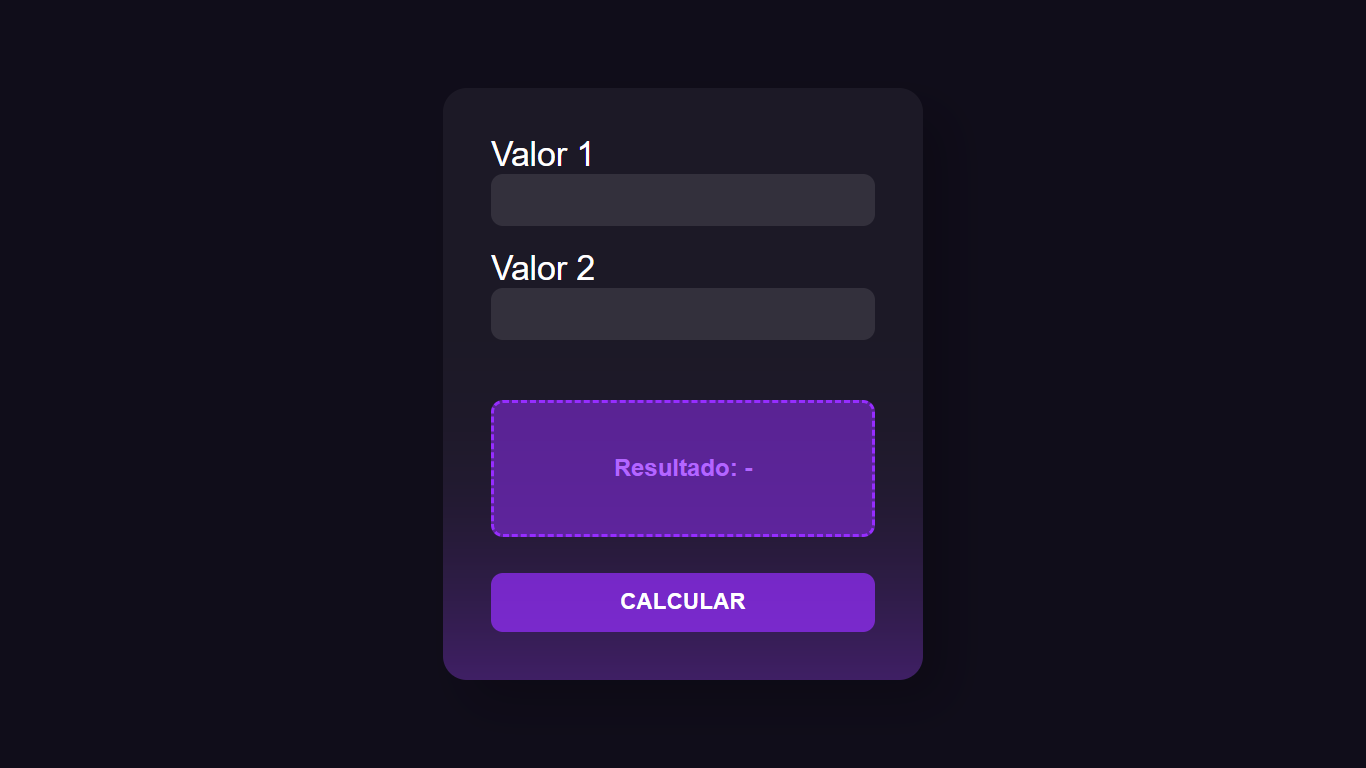
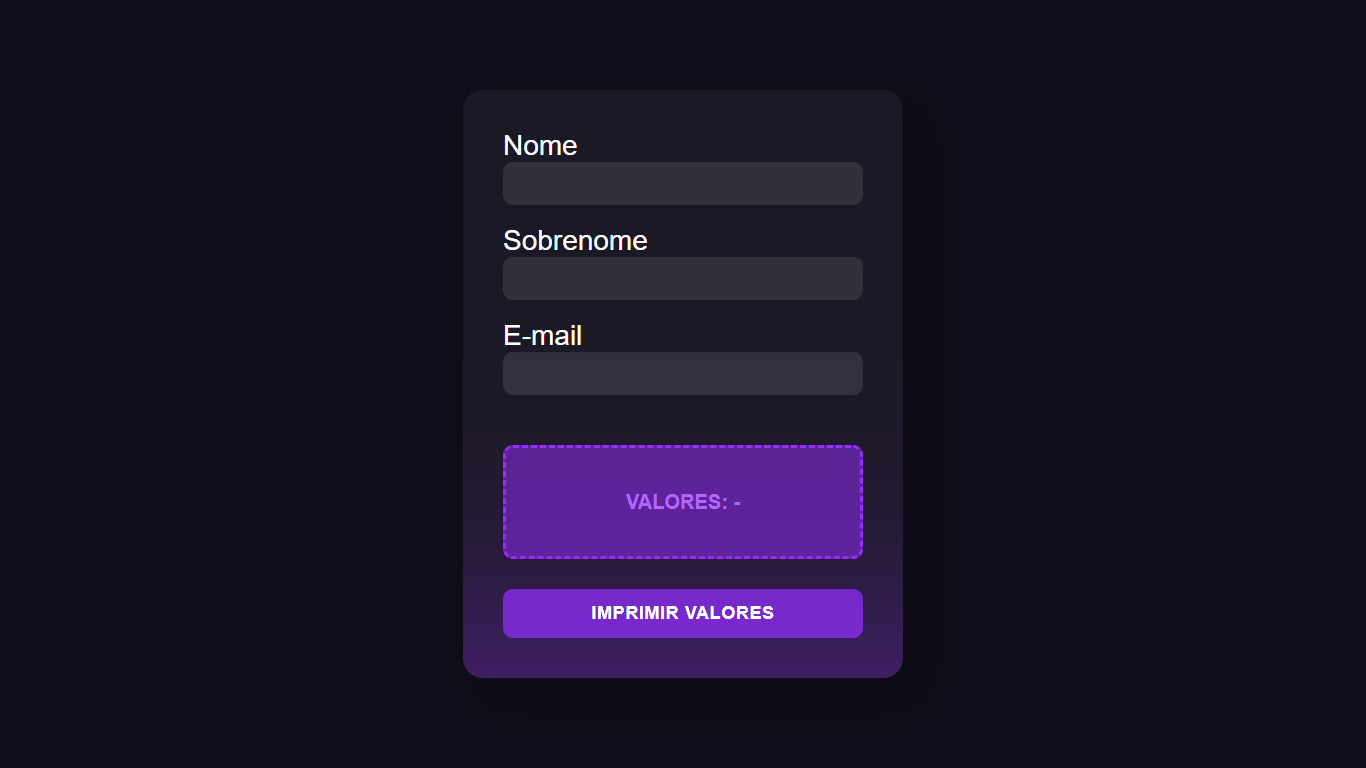
♻ refactor: Changes in practical activities

diff --git a/aula_10/AP/PraticaSoftware_John_Doe/index.html b/aula_10/AP/PraticaSoftware_John_Doe/index.html
@@ -1,0 +1,42 @@
+<!DOCTYPE html>
+<html lang="pt-BR">
+    <head>
+        <meta charset="UTF-8">
+        <meta http-equiv="X-UA-Compatible" content="IE=edge">
+        <meta name="viewport" content="width=device-width, initial-scale=1.0">
+
+        <title>Pratica Integradora Desenvolvimento de Software</title>
+
+        <link type="text/css" rel="stylesheet" href="css/estilo.css">
+    </head>
+    <body>
+        <form id="getForm">
+            <label for="nome">Nome</label>
+            <input id="nome" name="nome" type="text">
+
+            <label for="sobrenome">Sobrenome</label>
+            <input id="sobrenome" name="sobrenome" type="text">
+
+            <label for="email">E-mail</label>
+            <input id="email" name="email" type="email">
+
+            <div id="divResult">VALORES: -</div>
+
+            <button type="button" onclick="calc()">Imprimir Valores</button>
+        </form>
+    </body>
+
+    <script>
+        function calc() {
+            const form = document.getElementById('getForm')
+            const div  = document.getElementById('divResult')
+
+            const nome      = String(form.children.nome.value)
+            const sobrenome = String(form.children.sobrenome.value)
+            const email     = String(form.children.email.value)
+
+            if (nome.length && sobrenome.length && email.length)
+                return div.innerHTML = `VALORES: <br/><br/>${nome}<br/>${sobrenome}<br/>${email}`
+        }
+    </script>
+</html>

diff --git a/aula_06/AP/PraticaSoftware_John_Doe/css/estilo.css b/aula_06/AP/PraticaSoftware_John_Doe/css/estilo.css
@@ -9,19 +9,26 @@ body {
     width: 100vw;
     height: 100vh;
 
-    background-color: #100d1a;
+    background-color: burlywood;
     color: white;
     font-family: Arial, Helvetica, sans-serif;
     font-size: calc(1rem * 2);
 
     display: flex;
+    flex-direction: column;
     align-items: center;
     justify-content: center;
+    gap: 2rem;
 }
 
+h2 { color: brown; }
+
 table {
-    background-color: #ffffff0d;
+    background-color: blueviolet;
+    color: white;
     border-collapse: collapse;
+
+    margin: 0 1rem;
 
     display: flex;
     flex-direction: column;
@@ -32,9 +39,8 @@ table {
 }
 
 thead {
-    background-color: white;
+    background-color: brown;
     color: coral;
-    text-shadow: 2px 3px 4px red;
     text-transform: uppercase;
     text-align: center;
 }

diff --git a/aula_06/AP/PraticaSoftware_John_Doe/index.html b/aula_06/AP/PraticaSoftware_John_Doe/index.html
@@ -5,11 +5,13 @@
         <meta http-equiv="X-UA-Compatible" content="IE=edge">
         <meta name="viewport" content="width=device-width, initial-scale=1.0">
 
-        <link type="text/css" rel="stylesheet" href="estilo.css">
+        <title>Pratica Integradora Desenvolvimento de Software</title>
 
-        <title>Estilos avançados</title>
+        <link type="text/css" rel="stylesheet" href="css/estilo.css">
     </head>
     <body>
+        <h2>Fundamentos sobre estilos</h2>
+        
         <table>
             <thead>
                 <tr>

diff --git a/aula_02/AP/PraticaSoftware_John_Doe/index.html b/aula_02/AP/PraticaSoftware_John_Doe/index.html
@@ -1,7 +1,3 @@
-**R e s p o s t a - - - - - - - - - - - - - - - - - - - - - - - - - - - - - -**
-
-*HTML:*
-```html
 <!DOCTYPE html>
 <html lang="pt-BR">
     <head>
@@ -14,4 +10,3 @@
     <body>
     </body>
 </html>
-```

diff --git a/aula_10/AP/PraticaSoftware_John_Doe/css/estilo.css b/aula_10/AP/PraticaSoftware_John_Doe/css/estilo.css
@@ -20,7 +20,7 @@ body {
 }
 
 form {
-    width: 20rem;
+    width: 22rem;
 
     background-color: #ffffff0d;
     box-shadow: 1rem 1rem 2rem 0 #00000033, inset 0rem -20rem 17rem -19rem #962dff80;

diff --git a/aula_10/AP/code.md b/aula_10/AP/code.md
@@ -9,44 +9,38 @@
         <meta http-equiv="X-UA-Compatible" content="IE=edge">
         <meta name="viewport" content="width=device-width, initial-scale=1.0">
 
-        <link type="text/css" rel="stylesheet" href="styles.css">
+        <title>Pratica Integradora Desenvolvimento de Software</title>
 
-        <title>Soma de Dois Valores</title>
+        <link type="text/css" rel="stylesheet" href="css/estilo.css">
     </head>
     <body>
-        <form id="formCalc">
-            <label for="n1">Valor 1</label>
-            <input id="n1" name="n1" type="number">
+        <form id="getForm">
+            <label for="nome">Nome</label>
+            <input id="nome" name="nome" type="text">
 
-            <label for="n2">Valor 2</label>
-            <input id="n2" name="n2" type="number">
+            <label for="sobrenome">Sobrenome</label>
+            <input id="sobrenome" name="sobrenome" type="text">
 
-            <div id="divResult">Resultado: -</div>
+            <label for="email">E-mail</label>
+            <input id="email" name="email" type="email">
 
-            <button type="button" onclick="calc()">Calcular</button>
+            <div id="divResult">VALORES: -</div>
+
+            <button type="button" onclick="calc()">Imprimir Valores</button>
         </form>
     </body>
 
     <script>
         function calc() {
-            const form = document.getElementById('formCalc')
-            const div = document.getElementById('divResult')
+            const form = document.getElementById('getForm')
+            const div  = document.getElementById('divResult')
 
-            const n1 = Number(form.children.n1.value)
-            const n2 = Number(form.children.n2.value)
+            const nome      = String(form.children.nome.value)
+            const sobrenome = String(form.children.sobrenome.value)
+            const email     = String(form.children.email.value)
 
-            const baseValue = 10
-            const resultCalc = n1 + n2
-
-            const valueAbove = value => div.innerHTML = `Resultado: ${value}<br/>Valor acima de ${baseValue}`
-            const equalValue = value => div.innerHTML = `Resultado: ${value}<br/>Valor igual a ${baseValue}`
-            const valueBelow = value => div.innerHTML = `Resultado: ${value}<br/>Valor abaixo de ${baseValue}`
-
-            resultCalc > baseValue
-                ? valueAbove(resultCalc)
-                : resultCalc == baseValue
-                    ? equalValue(resultCalc)
-                    : valueBelow(resultCalc)
+            if (nome.length && sobrenome.length && email.length)
+                return div.innerHTML = `VALORES: <br/><br/>${nome}<br/>${sobrenome}<br/>${email}`
         }
     </script>
 </html>
@@ -76,7 +70,7 @@ body {
 }
 
 form {
-    width: 20rem;
+    width: 22rem;
 
     background-color: #ffffff0d;
     box-shadow: 1rem 1rem 2rem 0 #00000033, inset 0rem -20rem 17rem -19rem #962dff80;

diff --git a/aula_02/README.md b/aula_02/README.md
@@ -1,24 +1,26 @@
 ###### Atividade Prática
-## Trabalhando com listas 📝
+## Elementos Básicos 📝
 <br/>
 
-**Título da Prática:** Aplicação do uso de lista em um documento HTML
+**Título da Prática:** Aplicação dos elementos básicos do HTML
 <br/><br/>
 
-**Objetivos:** O aluno precisa identificar e codificar o elemento de lista em um documento HTML e reproduzir o layout especificado
+**Objetivos:** O aluno precisa identificar e codificar os elementos de um documento HTML e reproduzir o layout especificado
 <br/><br/>
 
 **Materiais, Métodos e Ferramentas:** O aluno precisa ter um programa de edição de texto para poder codificar e visualizar o layout HTML especificado. O software indicado para isso é o visual studio code. Contudo, pode ser utilizado qualquer software de edição de texto
 <br/><br/>
 
 **Atividade Prática**
-Nesta atividade prática, evoluiremos nosso código HTML com uma estrutura para criar uma lista simples com a indicação dos serviços prestados por uma empresa. Então, para começar faremos os seguintes passos:
+Nesta atividade prática, iniciaremos nosso código HTML com uma estrutura básica para desenvolver um site com um layout que evoluirá a cada prática que faremos. Então, para começar faremos os seguintes passos:
 
-_1º Passo:_ Logo abaixo da tag body crie uma `div` com o `id="lista"`. Não esqueça de fechar a `div`
+_1º Passo:_ Crie uma pasta no seu computador com o nome de `PraticaSoftware_Seu_nome_e_sobrenome`
 
-_2º Passo:_ Dentro da div crie um título `<h2>` com o conteúdo Lista de Serviços
+_2º Passo:_ Entre nessa pasta e crie o arquivo chamado `index.html`
 
-_3º Passo:_ Crie uma lista com 3 itens. O primeiro item será 'Criação de Sites', segundo item será 'Criação de Sistemas para Internet' e o terceiro item será 'Criação de soluções mobile'
+_3º Passo:_ Nesta pasta também crie a pasta `img`, `css` e `js`
+
+_4º Passo:_ No arquivo `index.html`, criei os elementos base para iniciarmos um documento HTML. Aqui você deve definir os elementos. Inclua também a tag title com o conteúdo "Pratica Integradora Desenvolvimento de Software"
 
 <br/><br/>
 

diff --git a/aula_06/README.md b/aula_06/README.md
@@ -1,5 +1,5 @@
 ###### Atividade Prática
-## Estilos Avançados 📝
+## Fundamentos sobre estilos 📝
 <br/>
 
 **Título da Prática:** Aplicação do uso de  CSS em um documento HTML.
@@ -12,11 +12,17 @@
 <br/><br/>
 
 **Atividade Prática**
-Nesta atividade prática, avançaremos no uso de estilos ao nosso código HTML com as propriedades do CSS e deixar o nosso layout mais interessante. Então para começar faremos os seguintes passos:
+Nesta atividade prática daremos estilos ao nosso código HTML com as propriedades do CSS e deixar o nosso layout mais interessante. Então para começar faremos os seguintes passos:
 
-_1º Passo:_ Dentro do arquivo `estilo.css` , defina que o `thead` terá seu texto alinhado no centro, a letra será em caixa alta e terá uma sobra da cor vermelha, posição horizontal de `2px`, posição vertical `3px` e raio da sobra de `4px`
+_1º Passo:_ Dentro do diretório `css` crie o arquivo `estilo.css`
 
-_2º Passo:_ Dentro do arquivo `estilo.css` , defina que o body terá a cor do texto da família `Arial, Helvetica, sans-serif;`
+_2º Passo:_ Abaixo da tag title no head inclua o link do css para o arquivo que você acabou de criar
+
+_3º Passo:_ Dentro do arquivo `estilo.css`, defina que o `h2` terá a cor do seu texto como `brown`
+
+_4º Passo:_ Dentro do arquivo `estilo.css`, defina que o `body` terá a cor de fundo como `burlywood`
+
+_5º Passo:_ Dentro do arquivo `estilo.css`, defina que a `table` terá a cor de fundo como `blueviolet` e a cor de texto `white`
 
 <br/><br/>
 

diff --git a/aula_06/AP/code.md b/aula_06/AP/code.md
@@ -9,11 +9,13 @@
         <meta http-equiv="X-UA-Compatible" content="IE=edge">
         <meta name="viewport" content="width=device-width, initial-scale=1.0">
 
-        <link type="text/css" rel="stylesheet" href="estilo.css">
+        <title>Pratica Integradora Desenvolvimento de Software</title>
 
-        <title>Estilos avançados</title>
+        <link type="text/css" rel="stylesheet" href="css/estilo.css">
     </head>
     <body>
+        <h2>Fundamentos sobre estilos</h2>
+
         <table>
             <thead>
                 <tr>
@@ -86,19 +88,26 @@ body {
     width: 100vw;
     height: 100vh;
 
-    background-color: #100d1a;
+    background-color: burlywood;
     color: white;
     font-family: Arial, Helvetica, sans-serif;
     font-size: calc(1rem * 2);
 
     display: flex;
+    flex-direction: column;
     align-items: center;
     justify-content: center;
+    gap: 2rem;
 }
 
+h2 { color: brown; }
+
 table {
-    background-color: #ffffff0d;
+    background-color: blueviolet;
+    color: white;
     border-collapse: collapse;
+
+    margin: 0 1rem;
 
     display: flex;
     flex-direction: column;
@@ -109,9 +118,8 @@ table {
 }
 
 thead {
-    background-color: white;
+    background-color: brown;
     color: coral;
-    text-shadow: 2px 3px 4px red;
     text-transform: uppercase;
     text-align: center;
 }

diff --git a/aula_10/README.md b/aula_10/README.md
@@ -1,8 +1,8 @@
 ###### Atividade Prática
-## Usando operadores em seu código 📝
+## Fundamentos do JavaScript 📝
 <br/>
 
-**Título da Prática:** Aplicação do uso de javascript em um documento HTML para trabalhar com operadores
+**Título da Prática:** Aplicação do uso de javascript em um documento HTML para tratar campos de um formulário
 <br/><br/>
 
 **Objetivos:** O aluno precisa identificar, codificar scripts em javascript e aplicar em um documento HTML.
@@ -12,7 +12,7 @@
 <br/><br/>
 
 **Atividade Prática**
-Nesta atividade prática, crie um documento html, dentro dele crie 2 campos: `valor1`, `valor2`. Em seguida crie uma função em javascript que pegue os valores dos campos e verifique se a soma deles é maior que `10`. Se for maior que `10`, imprima a mensagem `Valor acima de 10` dentro de uma div. Crie um botão que quando clicado chama a função que você criou.
+Nesta atividade prática, crie um documento html, dentro dele crie 3 campos: `nome`, `sobrenome` e `e-mail`. Em seguida, crie uma função em javascript que pegue os valores dos campos e imprima os valores dentro de uma `div`. Crie um botão que quando clicado chama a função que você criou.
 
 <br/><br/>
 
